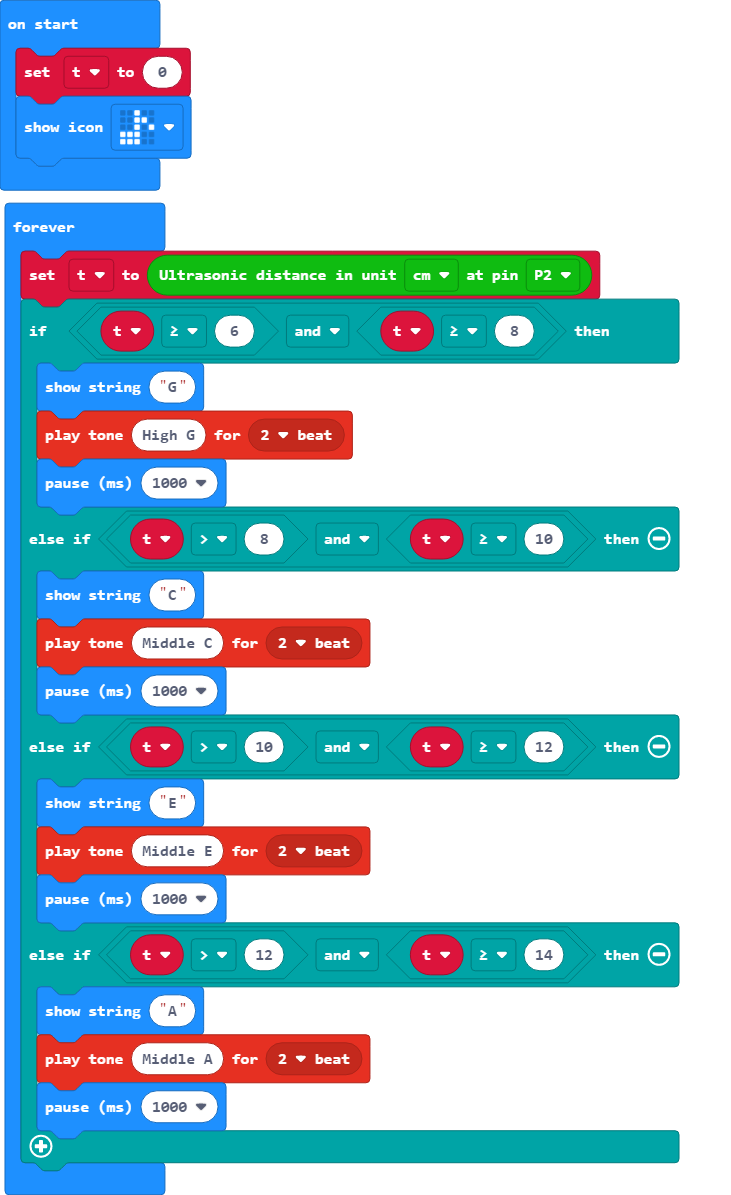
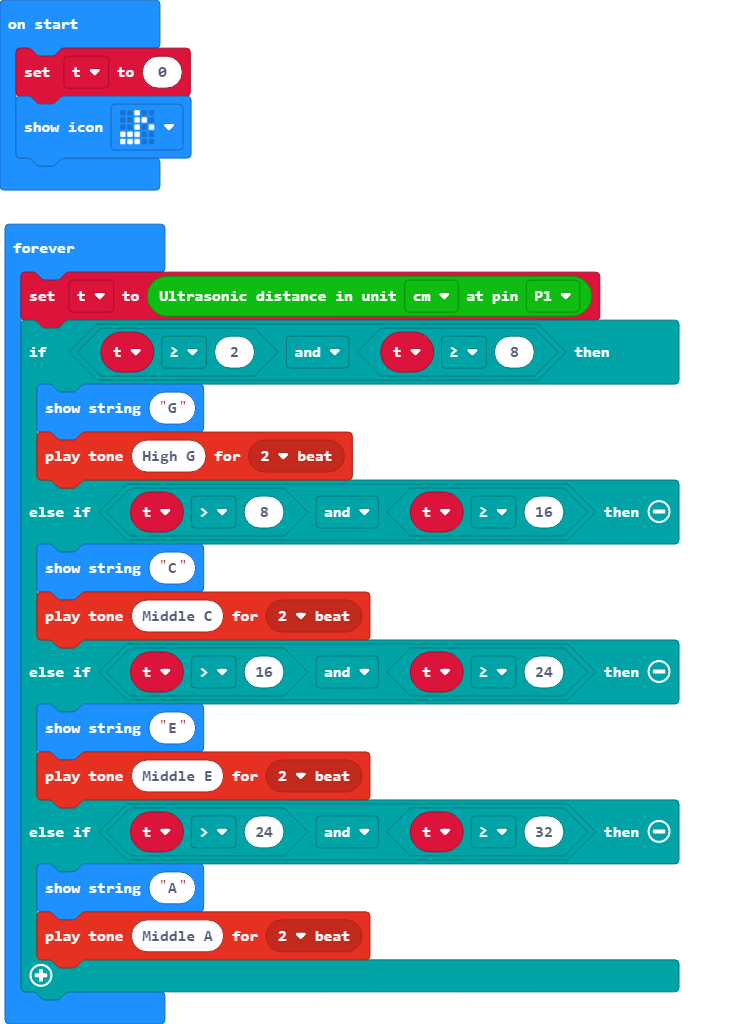
distance changes

diff --git a/main.ts b/main.ts
@@ -1,22 +1,18 @@
 let t = 0
 basic.showIcon(IconNames.EigthNote)
 basic.forever(function () {
-    t = sonarbit.sonarbit_distance(Distance_Unit.Distance_Unit_cm, DigitalPin.P2)
-    if (t >= 6 && t >= 8) {
+    t = sonarbit.sonarbit_distance(Distance_Unit.Distance_Unit_cm, DigitalPin.P1)
+    if (t >= 2 && t >= 8) {
         basic.showString("G")
         music.playTone(784, music.beat(BeatFraction.Double))
-        basic.pause(1000)
-    } else if (t > 8 && t >= 10) {
+    } else if (t > 8 && t >= 16) {
         basic.showString("C")
         music.playTone(262, music.beat(BeatFraction.Double))
-        basic.pause(1000)
-    } else if (t > 10 && t >= 12) {
+    } else if (t > 16 && t >= 24) {
         basic.showString("E")
         music.playTone(330, music.beat(BeatFraction.Double))
-        basic.pause(1000)
-    } else if (t > 12 && t >= 14) {
+    } else if (t > 24 && t >= 32) {
         basic.showString("A")
         music.playTone(440, music.beat(BeatFraction.Double))
-        basic.pause(1000)
     }
 })
